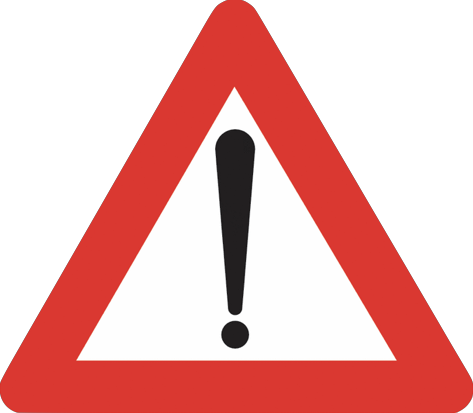
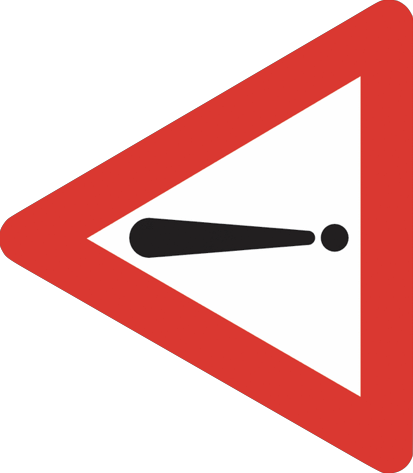
18 de Junio

diff --git a/Master.py b/Master.py
@@ -26,8 +26,11 @@ WHITE = 255,255,255
 RED = 255,0,0
 YELLOW = 255,254,84
 ROTACION_PANTALLA = 90
+
 PERIODO_ACTUALIZACION = 5
 PERIODO_PARPADEO = 5
+CODIGO_PELIGRO = 9999
+
 VELOCIDAD = 0
 VELOCIDAD_VIENTO = ""
 DIRECCION_VIENTO = ""
@@ -80,7 +83,7 @@ def draw_cono(screen):
     pygame.display.update()
         
 def draw_velocidad(screen,velocidad):
-    if (velocidad!=0):
+    if (velocidad!=0 and velocidad != CODIGO_PELIGRO):
         font_size = 480
         circle_size = 400
         circle_width = 30
@@ -90,6 +93,8 @@ def draw_velocidad(screen,velocidad):
         velocidad_rotada = pygame.transform.rotate(velocidad,90)
         velocidad_rect = velocidad_rotada.get_rect(center = circulo.center)
         screen.blit(velocidad_rotada,velocidad_rect)
+    elif(velocidad == CODIGO_PELIGRO):
+        draw_peligro(screen)
     pygame.display.update()
 
 def draw_rosa_viento(screen,direccion,velocidad = 0):
@@ -110,11 +115,14 @@ def draw_rosa_viento(screen,direccion,velocidad = 0):
 #     screen.blit(velocidad_viento_rotada,velocidad_viento_rect)
 #     pygame.display.update()
     pygame.display.update()
-
-def draw_all(screen,velocidad,direccion):
-    draw_velocidad(screen,velocidad)
-    draw_rosa_viento(screen,direccion)
-
+    
+def draw_peligro(screen):
+    peligro = pygame.image.load("peligro.png")
+    peligro_escalado = pygame.transform.scale(peligro,(int(monitor_width/2.7),int(monitor_height/1.3)))
+    peligro_rect = peligro_escalado.get_rect(center=centro_circulo)
+    screen.blit(peligro_escalado,peligro_rect)
+    pygame.display.update()
+    
 def arrow(screen, lcolor, tricolor, start, end, trirad, thickness=20):
     pygame.draw.line(screen, lcolor, start, end, thickness)
     rotation = (math.atan2(start[1] - end[1], end[0] - start[0])) + math.pi/2
@@ -197,6 +205,13 @@ primer_temporizador_actualizacion = time.time()
 primer_temporizador_parpadeo = time.time()
 primera_vez = True
 while True:
+    for event in pygame.event.get():
+        if event.type == QUIT:
+            pygame.quit()
+            exit()
+        if event.type == KEYDOWN:
+            pygame.quit()
+            exit()
     segundo_temporizador_actualizacion = time.time()
     array_datos = decodificar_datos(leer_transmisor())
     if(segundo_temporizador_actualizacion - primer_temporizador_actualizacion >= PERIODO_ACTUALIZACION or primera_vez):
@@ -210,10 +225,7 @@ while True:
         if(not primera_vez):
             parpadeo_display()
             primer_temporizador_parpadeo = segundo_temporizador_parpadeo
-    for event in pygame.event.get():
-        if event.type == QUIT:
-            pygame.quit()
-            exit()
+    
         
     
     

diff --git a/pruebaDisplay.py b/pruebaDisplay.py
@@ -13,6 +13,9 @@ RED = 255,0,0
 monitor_width = pygame.display.Info().current_w
 monitor_height = pygame.display.Info().current_h
 monitor_size = [monitor_width,monitor_height]
+
+monitor_center = [int(monitor_width/2),int(monitor_height/2)]
+
 screen = pygame.display.set_mode(monitor_size,RESIZABLE)
 
 arrow_surface = pygame.Surface((int(monitor_width/2),monitor_height),pygame.SRCALPHA)
@@ -75,7 +78,14 @@ def arrow(screen, lcolor, tricolor, start, end, trirad, thickness=20):
                                         end[1] + trirad * math.cos(rotation - 120*rad)),
                                        (end[0] + trirad * math.sin(rotation + 120*rad),
                                         end[1] + trirad * math.cos(rotation + 120*rad))))
+p1 = [int(monitor_width/3),int(monitor_height/2)]
+p2 = [int(monitor_width-monitor_width/3),int(monitor_height/5)]
+p3 = [int(monitor_width-monitor_width/3),int(monitor_height-monitor_height/5)]
 
+
+
+    
+    
     
     
     
@@ -111,14 +121,8 @@ def wait():
             if event.type == KEYDOWN:
                 return
                 
-v = logica_trafico(20,False)
-signal = displaySignal(v,"N")
-signal.draw(screen)
-wait()
-
-v = logica_trafico(25,False)
-newSignal = displaySignal(v,"E")
-newSignal.draw(screen)
+draw_peligro(screen)
+pygame.display.update()
 wait()
 pygame.quit()
     

diff --git a/displayRosetaViento.py b/displayRosetaViento.py
@@ -22,7 +22,7 @@ ROTACION_PANTALLA = 90
 monitor_width = pygame.display.Info().current_w
 monitor_height = pygame.display.Info().current_h
 monitor_size = [monitor_width,monitor_height]
-screen = pygame.display.set_mode(monitor_size,FULLSCREEN)
+screen = pygame.display.set_mode(monitor_size,RESIZABLE)
 
 arrow_surface = pygame.Surface((int(monitor_width/2),monitor_height),pygame.SRCALPHA)
 fullscreen = False
@@ -93,6 +93,12 @@ def draw_rosa_viento(screen,direccion,velocidad = 0):
 #     pygame.display.update()
     pygame.display.update()
 
+
+
+    
+    
+    
+
 def draw_all(screen,velocidad,direccion):
     draw_velocidad(screen,velocidad)
     draw_rosa_viento(screen,direccion)
@@ -138,12 +144,10 @@ def wait():
                 sys.exit()
             if event.type == KEYDOWN:
                 return
-                
-v = logica_trafico(20,False)
-draw_cono(screen)
-draw_velocidad(screen,v)
-wait()
-draw_rosa_viento(screen,"SW.png")
+
+
+draw_peligro(screen)
+
 wait()
 pygame.quit()
     
